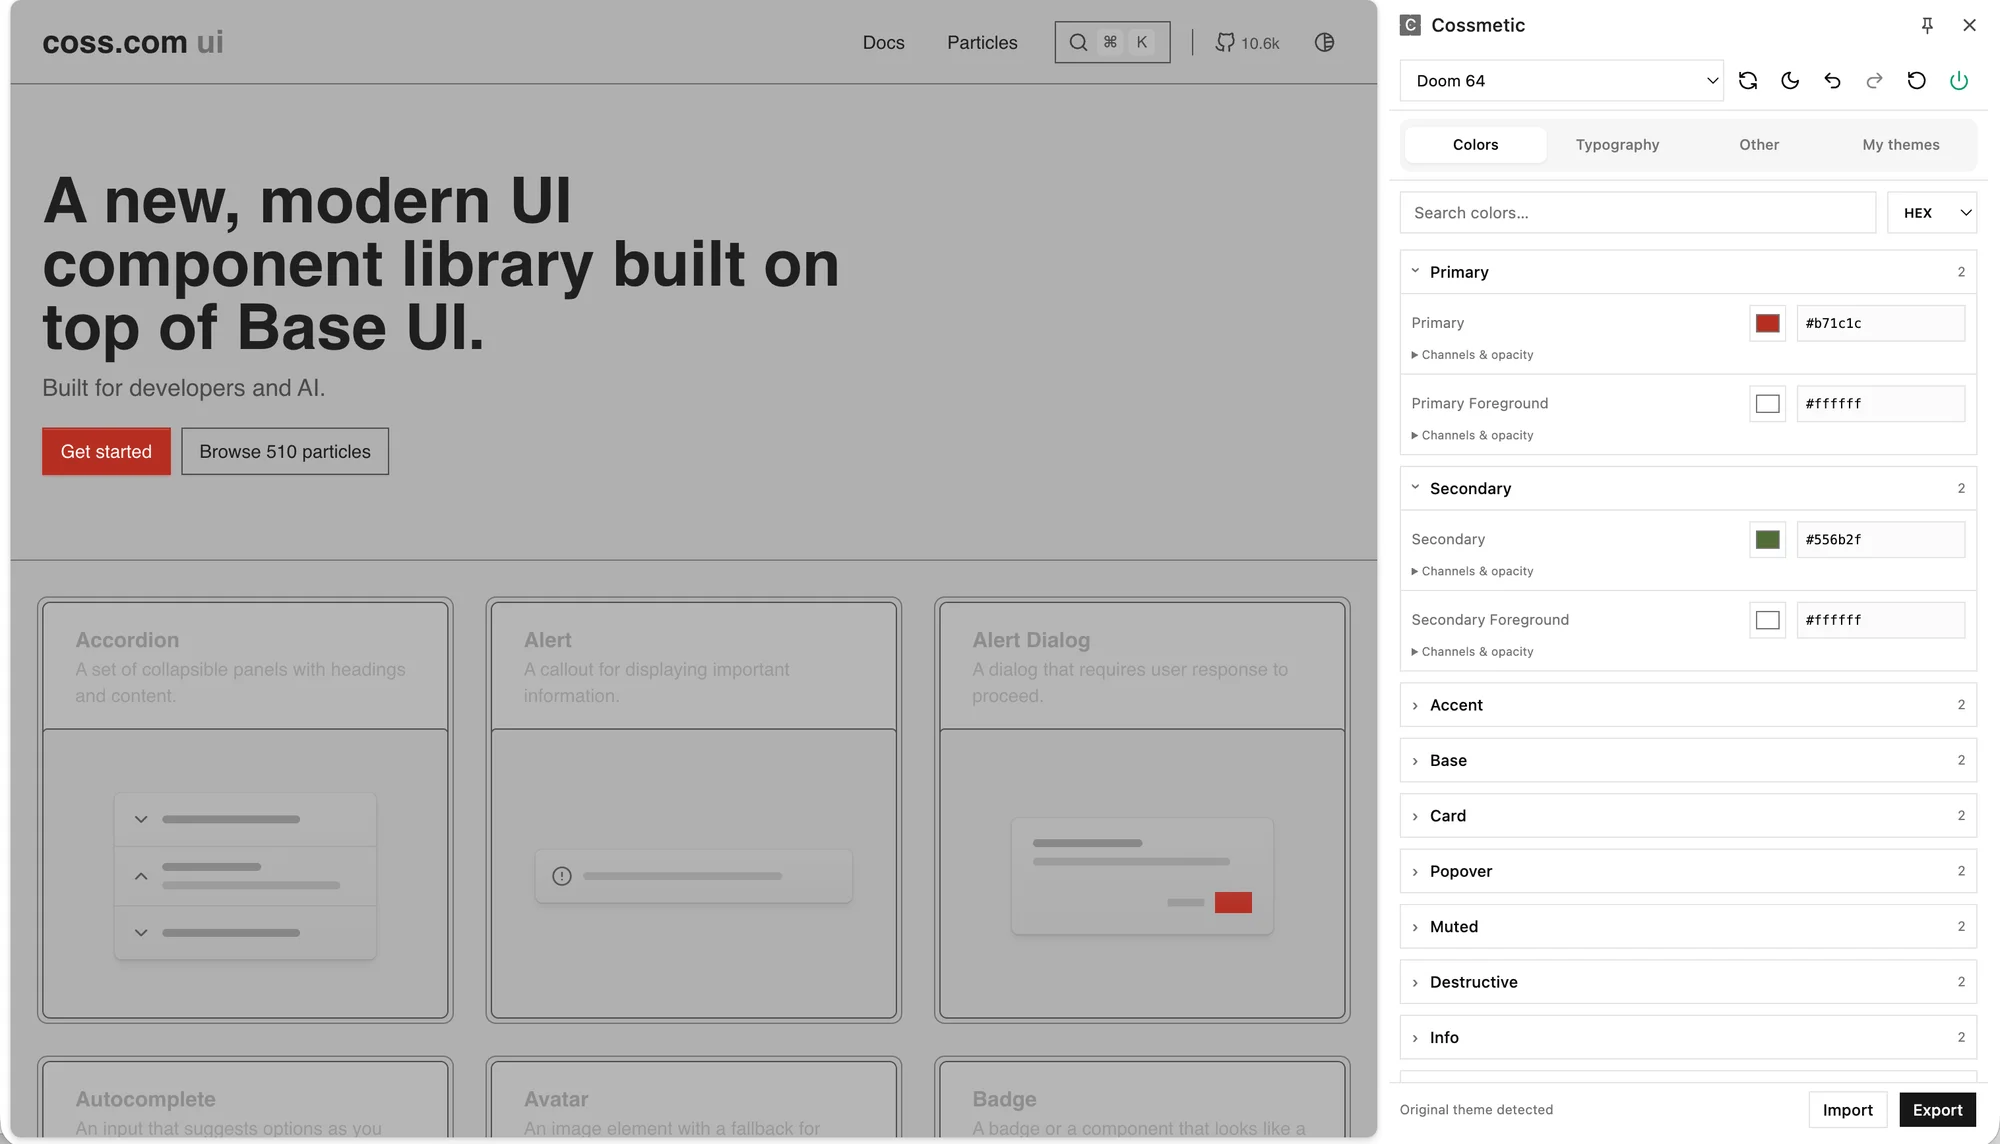
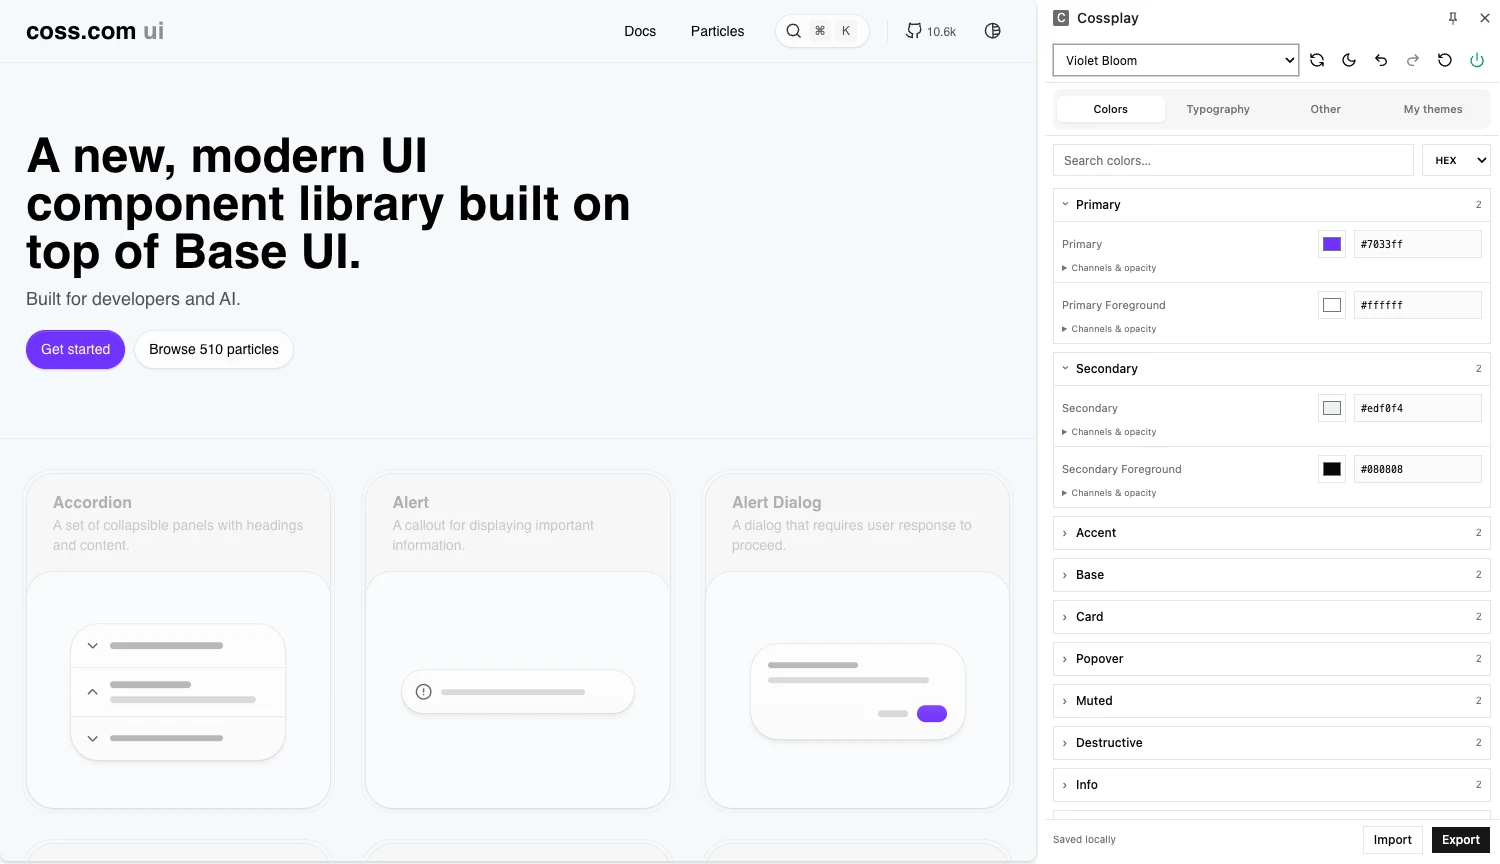
docs: landing screenshot with the Cossplay panel

diff --git a/apps/landing/public/index.html b/apps/landing/public/index.html
@@ -345,9 +345,9 @@
         <div class="shot">
           <img
             src="screenshot.webp"
-            width="2000"
-            height="1144"
-            alt="coss.com/ui themed with the Doom 64 preset, with the Cossplay side panel open on the color editor"
+            width="1500"
+            height="864"
+            alt="coss.com/ui themed with the Violet Bloom preset, with the Cossplay side panel open on the color editor"
           />
         </div>
       </header>
